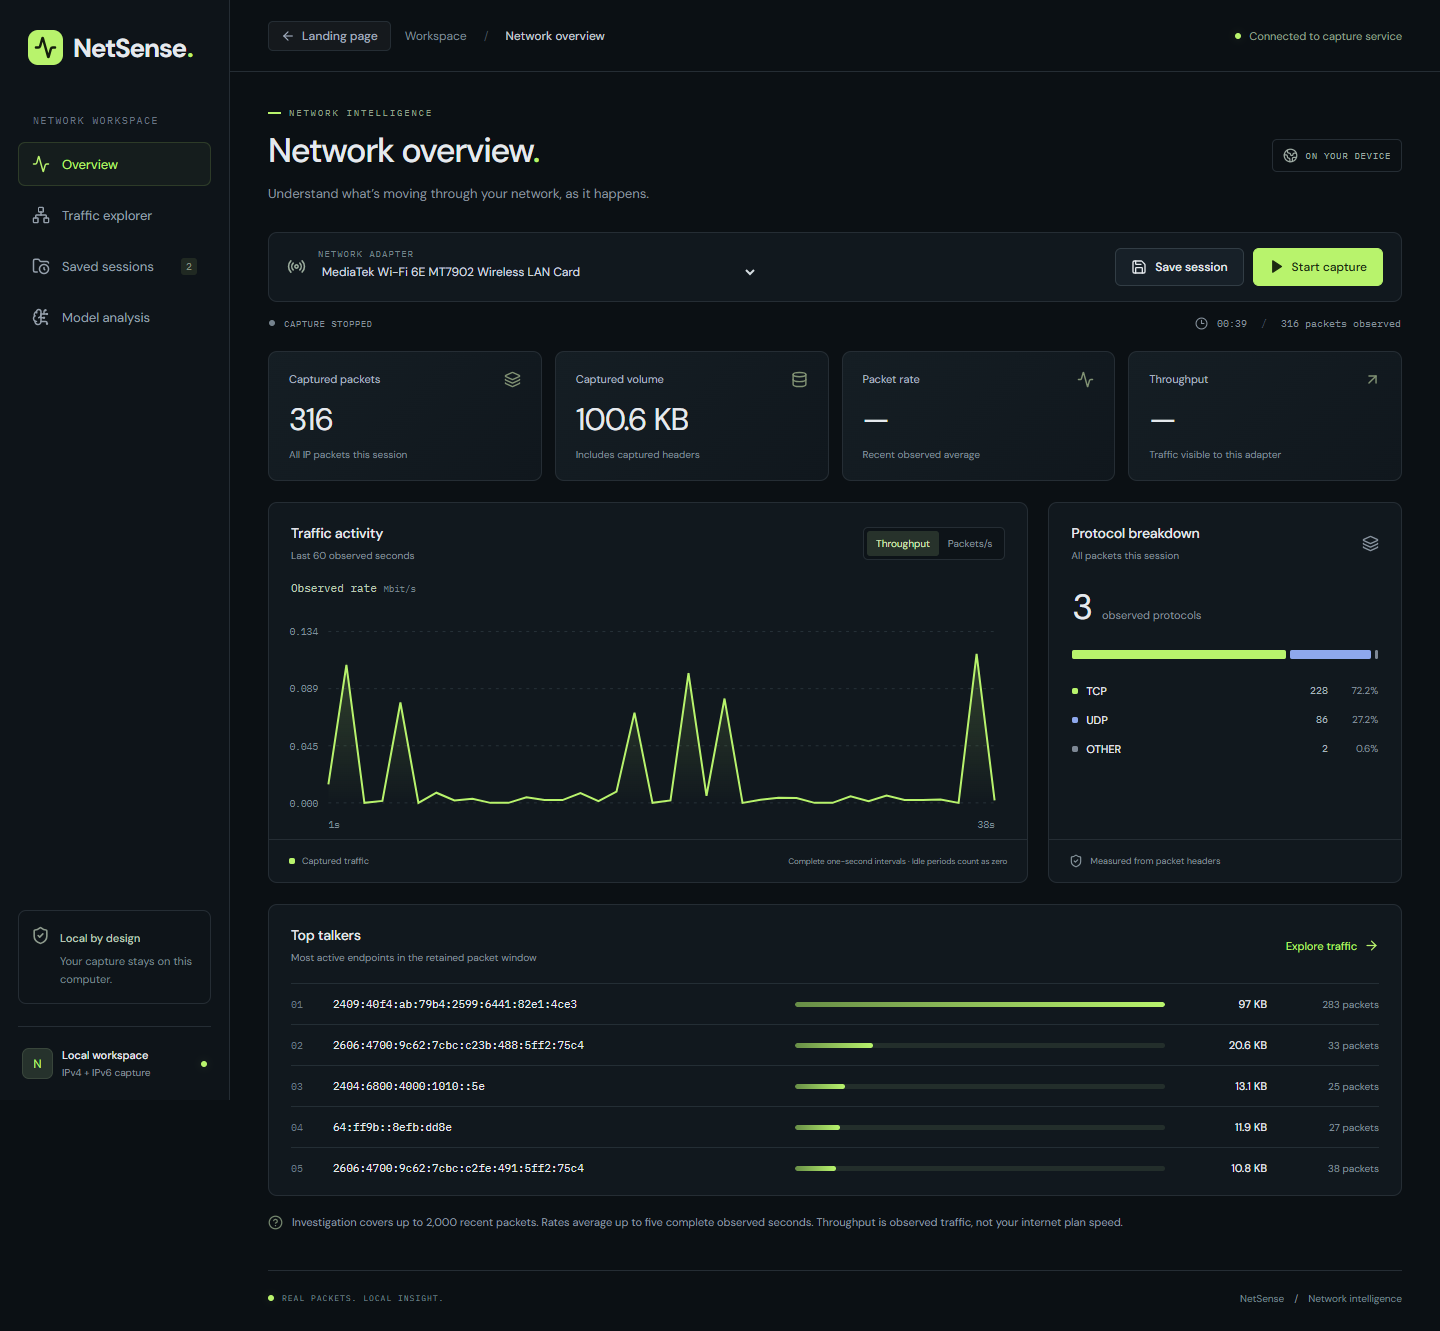
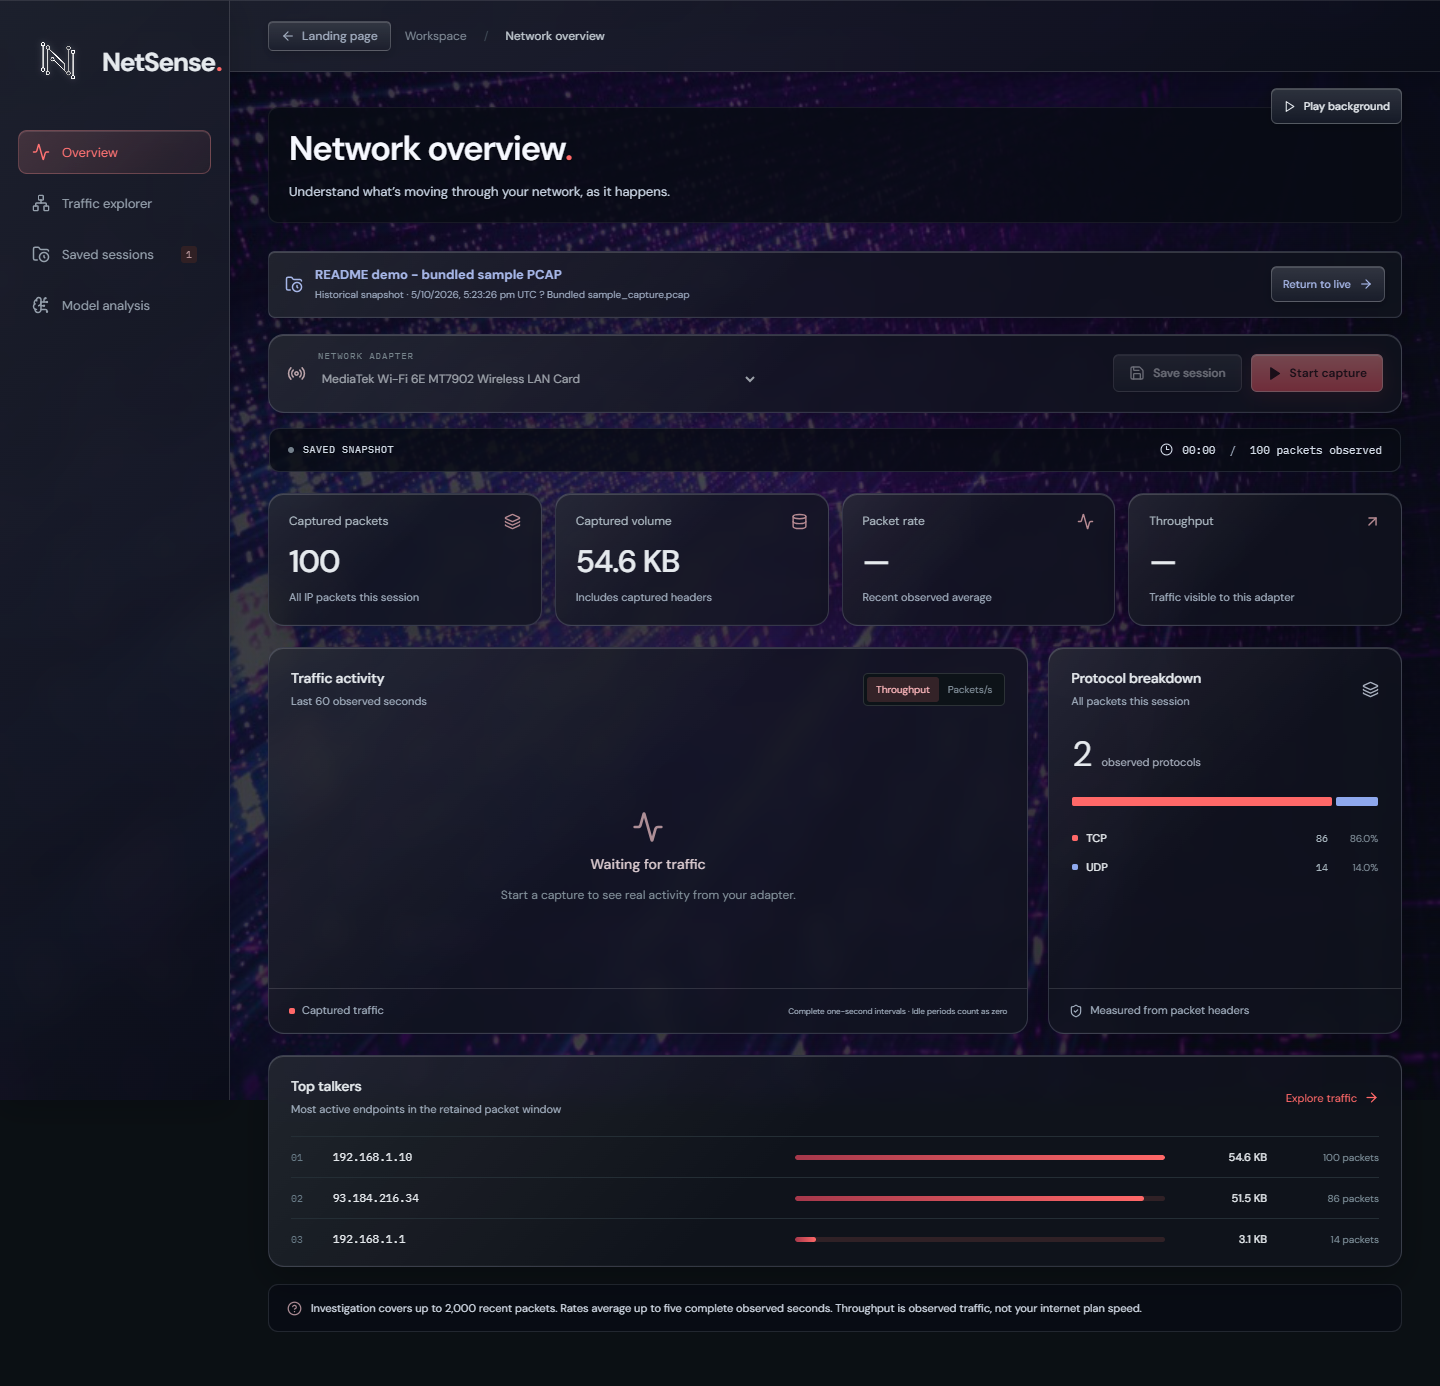
modified Readme

diff --git a/README.md b/README.md
@@ -1,10 +1,137 @@
-# NetSense — Network Traffic Intelligence
+<a id="top"></a>
 
-NetSense is a local network monitoring and investigation application with a **React + TypeScript frontend** and a **Python FastAPI backend**. Scapy captures IPv4/IPv6 packet headers; the dashboard shows live measurements, connections, endpoint rankings, and saved sessions.
+<p align="center">
+  <img src="docs/assets/readme-hero.svg" alt="NetSense — Network Traffic Intelligence. See the traffic. Understand the patterns." width="100%">
+</p>
+
+<h1 align="center">Your network, in focus.</h1>
+
+<p align="center">
+  Capture live traffic, explore connections, and investigate packet-size patterns.<br>
+  <strong>A local network intelligence workspace built with React, FastAPI, and PyTorch.</strong>
+</p>
+
+<p align="center">
+  <a href="#frontend-development"><img src="https://img.shields.io/badge/React-19-61DAFB?style=for-the-badge&amp;logo=react&amp;logoColor=61DAFB&amp;labelColor=101827" alt="React 19"></a>
+  <a href="#frontend-development"><img src="https://img.shields.io/badge/TypeScript-5.7-3178C6?style=for-the-badge&amp;logo=typescript&amp;logoColor=3178C6&amp;labelColor=101827" alt="TypeScript 5.7"></a>
+  <a href="#start-the-react-app"><img src="https://img.shields.io/badge/Python-3.10%2B-FFD43B?style=for-the-badge&amp;logo=python&amp;logoColor=FFD43B&amp;labelColor=101827" alt="Python 3.10 or newer"></a>
+  <a href="#start-the-react-app"><img src="https://img.shields.io/badge/API-FastAPI-009688?style=for-the-badge&amp;logo=fastapi&amp;logoColor=009688&amp;labelColor=101827" alt="FastAPI backend"></a>
+  <a href="#model-analysis"><img src="https://img.shields.io/badge/ML-PyTorch-EE4C2C?style=for-the-badge&amp;logo=pytorch&amp;logoColor=EE4C2C&amp;labelColor=101827" alt="PyTorch model analysis"></a>
+  <a href="LICENSE"><img src="https://img.shields.io/badge/License-MIT-B8F36B?style=for-the-badge&amp;labelColor=101827" alt="MIT License"></a>
+</p>
+
+<p align="center">
+  <a href="#screenshots"><strong>📸 Explore the UI</strong></a> ·
+  <a href="#start-the-react-app"><strong>🚀 Quick start</strong></a> ·
+  <a href="#using-the-dashboard"><strong>🧭 Dashboard guide</strong></a> ·
+  <a href="#model-analysis"><strong>🧠 Model analysis</strong></a> ·
+  <a href="#frontend-development"><strong>🛠 Development</strong></a> ·
+  <a href="#team"><strong>👥 Team</strong></a>
+</p>
+
+---
+
+## Meet NetSense
+
+NetSense turns IPv4/IPv6 packet headers captured by Scapy into a browsable dashboard of live measurements, connections, endpoint rankings, and saved sessions. Capture and investigate traffic visible to your computer's network adapter, all from one local workspace.
+
+<table>
+  <tr>
+    <td width="33%" valign="top">
+      <h3>🟢 Live visibility</h3>
+      <p>Watch packet counts, throughput, protocol distribution, and the last 60 observed seconds of activity.</p>
+    </td>
+    <td width="33%" valign="top">
+      <h3>🔵 Traffic explorer</h3>
+      <p>Filter by protocol, IP/CIDR, port, or time. Drill into connections, top talkers, and individual packets.</p>
+    </td>
+    <td width="33%" valign="top">
+      <h3>🟣 Model analysis</h3>
+      <p>Explore packet-size patterns with a PyTorch LSTM, class distributions, and window-by-window results.</p>
+    </td>
+  </tr>
+  <tr>
+    <td valign="top">
+      <h3>🟠 Saved sessions</h3>
+      <p>Keep capture snapshots in a local SQLite library and revisit them for historical investigation.</p>
+    </td>
+    <td valign="top">
+      <h3>🟡 Useful exports</h3>
+      <p>Download matching investigation rows as CSV and model analysis reports as JSON.</p>
+    </td>
+    <td valign="top">
+      <h3>🩵 Responsive workspace</h3>
+      <p>Browse a dark dashboard with paginated tables, live WebSocket updates, and automatic reconnection.</p>
+    </td>
+  </tr>
+</table>
+
+> [!NOTE]
+> Built for local, single-user use. Run **one backend worker**; browser tabs share the same capture and saved-session library. See [measurement and storage boundaries](#measurement-and-storage-boundaries) for what the numbers mean.
+
+## Screenshots
+
+Captured from the current UI on **5 October 2026**, with the updated branding, red accents, and glass dashboard surfaces. Data views use the repository's bundled sample PCAP; the capture workspace is shown before starting a capture.
+
+**Network overview** — a saved sample session showing packet totals, protocol distribution, and top talkers.
+
+[![Updated NetSense network overview with red accents, glass panels, and a saved sample session](docs/screenshots/react-overview.png)](docs/screenshots/react-overview.png)
+
+**Click a screenshot to view it at full size, or expand a view below.**
+
+<details>
+<summary><strong>🔴 Capture workspace — ready to start</strong></summary>
+
+[![Updated NetSense capture workspace with adapter selection and Start capture controls](docs/screenshots/react-live.png)](docs/screenshots/react-live.png)
+
+</details>
+
+<details>
+<summary><strong>🔵 Traffic investigation — explore connections and packets</strong></summary>
+
+[![NetSense traffic explorer with investigation controls](docs/screenshots/react-investigation.png)](docs/screenshots/react-investigation.png)
+
+</details>
+
+<details>
+<summary><strong>🧠 Model analysis — sample results and class distributions</strong></summary>
+
+[![Updated NetSense model analysis showing sample packet-size classifications, class distributions, and window results](docs/screenshots/react-model-analysis.png)](docs/screenshots/react-model-analysis.png)
+
+</details>
+
+<details>
+<summary><strong>🟣 Landing page — enter the workspace</strong></summary>
+
+[![NetSense landing page](docs/screenshots/react-landing.png)](docs/screenshots/react-landing.png)
+
+</details>
+
+<details>
+<summary><strong>📱 Mobile layout — a closer look at the compact UI</strong></summary>
+
+<p align="center">
+  <a href="docs/screenshots/react-mobile.png"><img src="docs/screenshots/react-mobile.png" alt="NetSense dashboard in a mobile viewport" width="320"></a>
+</p>
+
+</details>
+
+<p align="right"><a href="#top">Back to top ↑</a></p>
+
+---
 
 ## Start the React app
 
-Prerequisites: Python 3.10+, Node.js 20.18+ with npm, and a packet capture driver. On Windows, install [Npcap](https://npcap.com/) with WinPcap compatibility. On Linux/macOS, install libpcap and use the capture permissions required by your system.
+### 1 · Check prerequisites
+
+| Requirement | What you need |
+| :--- | :--- |
+| 🐍 Python | **3.10+** |
+| 🟩 Node.js | **20.18+**, with npm |
+| 🪟 Windows capture | [Npcap](https://npcap.com/) with **WinPcap compatibility** |
+| 🐧 Linux / 🍎 macOS capture | **libpcap** and your system's required capture permissions |
+
+### 2 · Install, build, and launch
 
 Run from the repository root:
 
@@ -15,11 +142,19 @@ npm --prefix frontend run build
 python run.py
 ```
 
-Open **http://127.0.0.1:8000**. FastAPI serves the built frontend and API together; Node is only needed to install/build or develop the frontend. The lockfile pins frontend dependencies, and Vite 6 supports the project's existing Node 20.18 environment.
+### 3 · Open your workspace
 
-After changing frontend code, rebuild it and refresh the browser. Stop the server with Ctrl+C. If Npcap restricts capture to administrators, run the backend from an Administrator terminal.
+Open **[NetSense → http://127.0.0.1:8000](http://127.0.0.1:8000)**, select a network adapter, and click **Start capture**.
+
+FastAPI serves the built frontend and API together; Node is only needed to install/build or develop the frontend. The lockfile pins frontend dependencies, and Vite 6 supports the project's existing Node 20.18 environment.
+
+> [!TIP]
+> After changing frontend code, rebuild it and refresh the browser. Stop the server with **Ctrl+C**. If Npcap restricts capture to administrators, run the backend from an Administrator terminal.
 
 ## What changed from Streamlit
+
+<details>
+<summary><strong>⚡ Explore the React + FastAPI improvements</strong></summary>
 
 - Filters, tabs, pagination, and connection drill-down execute in the browser without Python page reruns.
 - A WebSocket delivers capture snapshots once per second. Unchanged packet windows are omitted, and React reuses their existing data instead of reaggregating them.
@@ -28,9 +163,13 @@ After changing frontend code, rebuild it and refresh the browser. Stop the serve
 - Disconnects are visible, current rates become unavailable, and the frontend reconnects automatically. Inputs remain mounted during live updates.
 - Saved sessions use the existing `data/sessions.sqlite3` database; no migration is needed.
 
+</details>
+
 This is a local, single-user application. Browser tabs share one capture and library. Run **one backend worker**. The default server binds only to loopback; this application is not configured for public hosting or multiple users. The Python backend observes traffic visible to the adapter of the computer running it, not the computer visiting a remotely hosted page.
 
 ## Using the dashboard
+
+**Capture → Explore → Save → Analyze**
 
 1. Select a network adapter and click **Start capture**. Starting a new capture clears the previous in-memory capture.
 2. **Overview** shows full-session counters, the last 60 observed seconds, protocol distribution, and the top retained endpoints.
@@ -41,9 +180,15 @@ This is a local, single-user application. Browser tabs share one capture and lib
 
 ## Model analysis
 
+> [!IMPORTANT]
+> AI labels describe **packet-size patterns**. They do not establish congestion, application identity, packet loss, or malicious activity. Model probabilities are uncalibrated; cross-network performance has not been established.
+
 The active, matched bundle is in `models/packet-size-v1/`: weights, `scaler.pkl`, and a training manifest containing file hashes and held-out evaluation. The original standalone weights are preserved. The API rejects missing or mismatched bundle files.
 
 Open **Model analysis**, choose the current capture or a saved session, then click **Analyze capture**. At least **10 retained IP packets** are required. Analysis evaluates up to 100 evenly spaced 10-packet windows across the retained buffer, reports their class counts and mean model probabilities, and offers a JSON report download. Results are snapshots; run again to update them.
+
+<details>
+<summary><strong>🧪 Reproduce the model bundle and inspect evaluation details</strong></summary>
 
 To reproduce the bundle from the included training dataset:
 
@@ -55,7 +200,22 @@ python -m netsense.ml.train --epochs 12 --max-samples 24000
 
 Training creates both weights and scaler together. The validation set selects the checkpoint; the final test set is evaluated separately. The manifest records the dataset hash, split, thresholds, and evaluation counts. After retraining, click **Refresh model**; the API reloads changed artifacts. These classes describe packet-size patterns relative to the training dataset. Probabilities are uncalibrated, and cross-network performance has not been established.
 
+</details>
+
+<p align="right"><a href="#top">Back to top ↑</a></p>
+
 ## Measurement and storage boundaries
+
+| Scope | Retention / limit |
+| :--- | :--- |
+| 📊 Session counters | All observed IP packets in the session |
+| 🔎 Investigation & packet exports | Latest **2,000 retained headers** |
+| 📈 Chart history | Up to **60 observed seconds** |
+| 💾 Saved library | **50 sessions**, at most **5 MB** each |
+| 🧠 Model input | At least **10 retained IP packets** |
+
+<details>
+<summary><strong>📏 Read measurement definitions, storage behavior, and model limitations</strong></summary>
 
 - Session counters include all observed IP packets. Investigation and packet exports cover the latest **2,000 retained headers**.
 - Connections group protocol and bidirectional endpoint pairs. Duration spans matching retained packets; it is not a measured TCP connection lifetime. Reused endpoint pairs are grouped together.
@@ -66,6 +226,10 @@ Training creates both weights and scaler together. The validation set selects th
 - The local SQLite library allows **50 sessions**, at most **5 MB** each, and never automatically deletes an older session. It is excluded from Git. Anyone with access to this local app instance can access that library.
 - Abandoned capture stops after roughly 60 seconds without an active consumer. Closing the backend also stops capture.
 - AI labels remain estimates derived from packet-size features. They do not establish congestion, application identity, packet loss, or malicious activity. The active bundle is trained with a chronological 70/15/15 split before constructing sequences. Its labels are derived from training-only packet-size thresholds, so evaluation scores describe agreement with those labels, not independent congestion or threat detection.
+
+</details>
+
+---
 
 ## Frontend development
 
@@ -79,7 +243,7 @@ python -m uvicorn netsense.api:app --host 127.0.0.1 --port 8000
 npm --prefix frontend run dev
 ```
 
-Open http://127.0.0.1:5173. Vite proxies `/api` and WebSocket traffic to the backend. Default local origins on ports 8000 and 5173 are accepted; unrelated browser origins are rejected. API documentation is available at http://127.0.0.1:8000/docs.
+Open **[the development UI → http://127.0.0.1:5173](http://127.0.0.1:5173)**. Vite proxies `/api` and WebSocket traffic to the backend. Default local origins on ports 8000 and 5173 are accepted; unrelated browser origins are rejected. Explore the **[interactive API docs](http://127.0.0.1:8000/docs)** while the backend is running.
 
 ## Verification
 
@@ -88,6 +252,9 @@ python -m unittest discover -s backend/tests -p "test_*.py" -v
 npm --prefix frontend test
 npm --prefix frontend run build
 ```
+
+<details>
+<summary><strong>🌐 Run the browser checks</strong></summary>
 
 Browser checks require Playwright, Microsoft Edge, and the built app running on port 8000:
 
@@ -99,7 +266,12 @@ python scripts/check_react_ui.py --live
 
 The browser check uses the bundled PCAP as a clearly identified temporary saved session and deletes only its own test sessions afterwards. It checks the real API/WebSocket connection, filtering, connection drill-down, CSV download, input focus during updates, mobile layout, and deletion.
 
+</details>
+
 ## Project structure
+
+<details>
+<summary><strong>🗂 Explore the repository layout</strong></summary>
 
 ```text
 ├── backend/
@@ -141,8 +313,10 @@ The browser check uses the bundled PCAP as a clearly identified temporary saved 
 │   ├── training/             Dataset for model training (output1.csv)
 │   └── sessions.sqlite3      Local capture session database (git-ignored)
 ├── models/
-│   └── tcp_udp_lstm_pytorch.pt Pre-trained PyTorch LSTM weights
+│   ├── packet-size-v1/       Active matched weights, scaler, and training manifest
+│   └── tcp_udp_lstm_pytorch.pt Original standalone PyTorch LSTM weights
 ├── docs/
+│   ├── assets/               README banner artwork
 │   └── screenshots/          Application UI screenshots (overview, live, explorer, mobile)
 ├── images/                   Project contributor profile pictures
 ├── scripts/
@@ -151,8 +325,11 @@ The browser check uses the bundled PCAP as a clearly identified temporary saved 
 └── requirements.txt          Python project dependencies (-e ./backend)
 ```
 
+</details>
+
 ---
 
+<a id="team"></a>
 
 ## 👥 Built By
 
@@ -173,3 +350,8 @@ This project is open-source and available under the **[MIT License](LICENSE)**.
 ```text
 Copyright (c) 2025 Jose Regish J (hackerjose25)
 ```
+
+<p align="center">
+  <strong>Real packets. Local insight.</strong><br>
+  <a href="#top">Back to top ↑</a> · <a href="#start-the-react-app">Launch NetSense →</a>
+</p>
